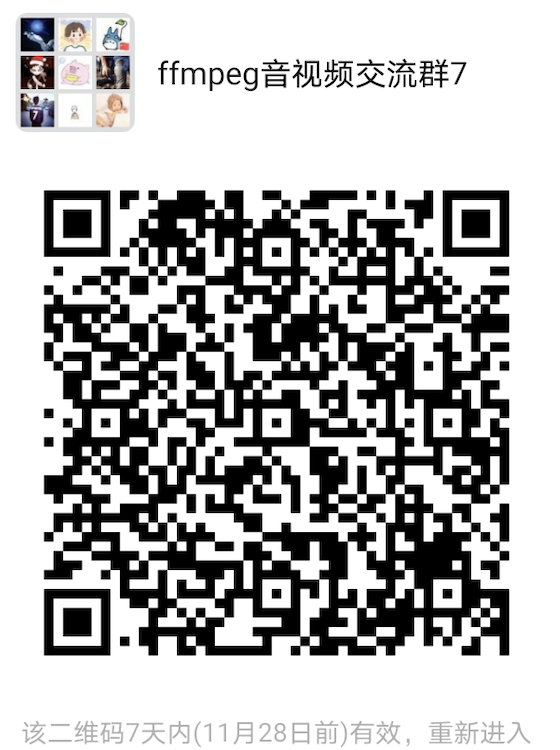
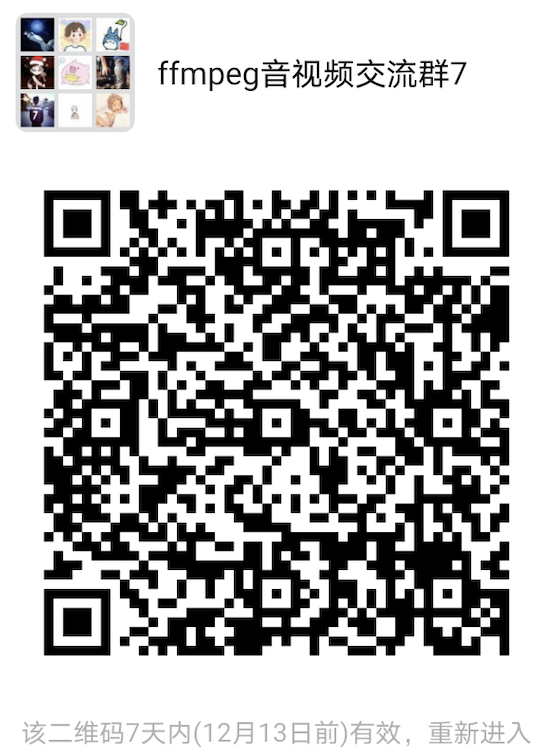
watermark move from left to right

diff --git a/app/src/main/java/com/frank/ffmpeg/util/FFmpegUtil.java b/app/src/main/java/com/frank/ffmpeg/util/FFmpegUtil.java
@@ -403,7 +403,8 @@ public class FFmpegUtil {
                 return "overlay='(main_w-overlay_w)-" + offsetX + ":(main_h-overlay_h)-" + offsetY + "'";
             case 1:
             default:
-                return "overlay=" + offsetX + ":" + offsetY;
+                // move from to right
+                return "overlay=(10+t*20):" + offsetY;
         }
     }
 
@@ -422,7 +423,7 @@ public class FFmpegUtil {
                                            int offsetXY, String outputPath) {
         String mBitRate = bitRate + "k";
         String overlay = obtainOverlay(offsetXY, offsetXY, location);
-        String waterMarkCmd = "ffmpeg -i -i -b:v %s -filter_complex %s -preset:v superfast";
+        String waterMarkCmd = "ffmpeg -i -i -b:v %s -filter_complex %s -preset:v superfast -y";
         waterMarkCmd = String.format(waterMarkCmd, mBitRate, overlay);
         return insert(waterMarkCmd.split(" "), 2, inputPath, 4, imgPath, outputPath);
     }
@@ -780,17 +781,6 @@ public class FFmpegUtil {
     }
 
     /**
-     * Rebuild the keyframe index of FLV, make it seekable
-     * @param inputPath inputFile
-     * @param outputPath targetFile
-     * @return command of building flv index
-     */
-    public static String[] buildFlvIndex(String inputPath, String outputPath) {
-        String buildIndex = "ffmpeg -i -flvflags add_keyframe_index";
-        return insert(buildIndex.split(" "), 2, inputPath, outputPath);
-    }
-
-    /**
      * Insert the picture into the header of video, which as a thumbnail
      * @param inputPath inputFile
      * @param picturePath the path of thumbnail
@@ -836,12 +826,6 @@ public class FFmpegUtil {
         String rotateCmd = "ffmpeg -i -c copy -metadata:s:v:0 rotate=%d";
         rotateCmd = String.format(Locale.getDefault(), rotateCmd, rotateDegree);
         return insert(rotateCmd.split(" "), 2, inputPath, outputPath);
-    }
-
-    public static String[] changeGOP(String inputPath, int gop, String outputPath) {
-        String gopCmd = "ffmpeg -i -g %d";
-        gopCmd = String.format(Locale.getDefault(), gopCmd, gop);
-        return insert(gopCmd.split(" "), 2, inputPath, outputPath);
     }
 
     /**
